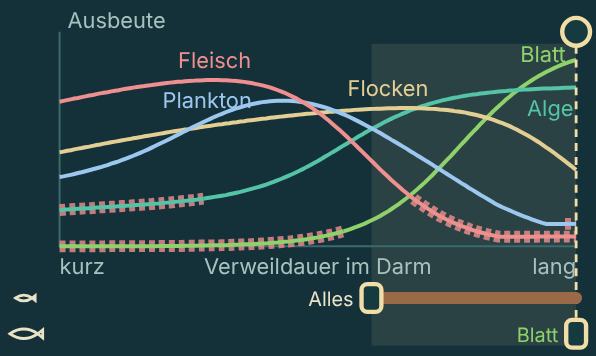
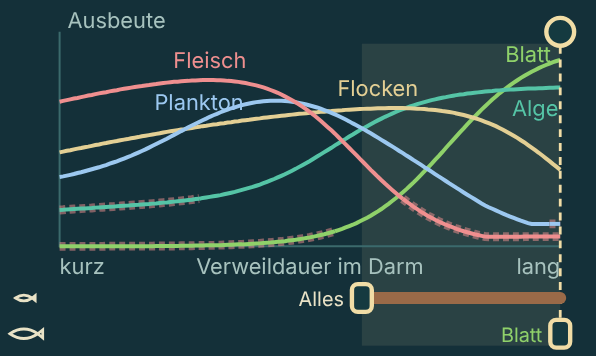
Darm: Claudes Einwände eingearbeitet, zweite Runde zur Freigabe
Claude-Session: https://claude.ai/code/session_01BFTVBFr3n4RiE4TcZDiSTc

Changed region(s): [[0.0906, 0.0309, 0.9966, 0.9888], [0.151, 0.4635, 0.1812, 0.4944], [0.151, 0.4017, 0.1812, 0.4326]]

diff --git a/entwuerfe/inspektoren.html b/entwuerfe/inspektoren.html
@@ -456,7 +456,7 @@ function drawFish() {
 // grown fish: their left ends are the muscle at full drive at that age (a setting each), with
 // what the gut is built for then; their right end is the gut at rest, moved for both by the round
 // grip on the dashed line (the gut's length).
-const Y = {L : 30, R : 290, top : 22, base : 124, rows : {young : 150, grown : 168}, height : 178};
+const Y = {L : 30, R : 282, top : 22, base : 124, rows : {young : 150, grown : 168}, height : 178};
 const xOfStay = t => Y.L + (Y.R - Y.L) * Math.log(clamp(t, SHORT, LONG) / SHORT) / Math.log(LONG / SHORT);
 const stayOfX = x => SHORT * Math.pow(LONG / SHORT, clamp((x - Y.L) / (Y.R - Y.L), 0, 1));
 function buildYield(fixed) {
@@ -471,7 +471,7 @@ function buildYield(fixed) {
     let run = [pts[0]];
     const flush = () => {
       if (run.length < 2) return;
-      if (run[0][2]) el('path', {d : path(run), ...SORE, 'stroke-width' : 6, opacity : .8}, fixed);
+      if (run[0][2]) el('path', {d : path(run), ...SORE, 'stroke-width' : 4.5, opacity : .5}, fixed);
       el('path', {d : path(run), fill : 'none', stroke : c.colour, 'stroke-width' : 2}, fixed);
     };
     for (let i = 1; i < pts.length; i++) { if (pts[i][2] !== run[0][2]) { run.push(pts[i]); flush(); run = [pts[i]]; } else run.push(pts[i]); }
@@ -536,8 +536,9 @@ function drawBars() {
 // bar for the others), filling with the input, with a grip for each key. A key's dashed line runs
 // across the input; the band around it is how far its cells' thresholds spread, set by the round
 // grip with a tail at its end. The light line is what the chosen key's cells still feel of the input as
-// they tire; the filled shape between it and their thresholds is what they send. The dashed
-// upright is where they send nothing more; its grip sets the same as the cell's grip above. The
+// they tire; the filled shape between it and their thresholds is what they send. On the step
+// axis each key has a mark where its cells send nothing more, the chosen one's with a dashed
+// upright; it sets the same as the cell's grip above. The
 // clock's line runs through it. At the bottom, for two of the senses: what each food gives these
 // cells in this gut, darker what it always gives, lighter what it gives depending on the muscle.
 const SENSE_BOX = {L : 92, R : 292, LX : 44, I0 : 130, I1 : 250, row : 34, rowL : 6, rowR : 294, rowGap : 10};
@@ -551,12 +552,13 @@ const IRRITANT = {full : stomachPath({x : 0, y : 0, rx : 6, ry : 6}), ache : 'M2
 // pointing down to what irritates them (it throbs while the input is there). Their fibres swing
 // up to the right and join into one bundle; a pulse leaves a cell whenever enough of its signal
 // has gathered, and pulses that reach the bundle together run on as one bigger one. A cell is
-// chosen by touching it. For cells that tire, a grip each: it stands above the step at which that
-// cell sends nothing more, and moves it.
+// chosen by touching it. If the chosen cell tires, its grip stands above the step at which it
+// sends nothing more, and moves it.
 // Each cell is drawn as it first was, turned round: the cell body lower left, three receiving
 // ends below it, a short fibre swinging up to the right. A fibre runs into the bundle in the
-// bundle's own direction, so that there is no corner where they meet.
-const NERVE = {somas : [[62, 72], [38, 66], [84, 84]], join : [100, 46], bundle : [[100, 46], [114, 34], [128, 30], [146, 8]], grips : [86, 72, 58], irritant : [56, 106],
+// bundle's own direction, so that there is no corner where they meet; the bundle leaves the
+// picture at its upper edge, towards the brain.
+const NERVE = {somas : [[62, 72], [38, 66], [84, 84]], join : [100, 46], bundle : [[100, 46], [114, 34], [134, 28], [152, -2]], irritant : [40, 106],
                speed : .0026, rate : .006, merge : .15, pulses : 4};
 const cubic = (a, b, c, d, t) => { const u = 1 - t; return [0, 1].map(n => u * u * u * a[n] + 3 * u * u * t * b[n] + 3 * u * t * t * c[n] + t * t * t * d[n]); };
 function nerves(svg, parent, id, cell, choose, gripX, tire) {
@@ -564,11 +566,13 @@ function nerves(svg, parent, id, cell, choose, gripX, tire) {
   el('path', {d : `M${bundle[0]} C${bundle[1]} ${bundle[2]} ${bundle[3]}`, stroke : COLOUR.icon, 'stroke-width' : 3, fill : 'none', 'stroke-linecap' : 'round'}, parent);
   cell.keys.forEach((k, i) => {
     const [cx, cy] = NERVE.somas[i], colour = keyColour(i), chosen = i === cell.chosen, way = [[cx, cy], [cx + 4, cy - 16], [join[0] - 17, join[1] + 15], join];
-    el('path', {d : `M${cx} ${cy} l7 13 M${cx} ${cy} l-2 15 M${cx} ${cy} l-10 11 M${way[0]} C${way[1]} ${way[2]} ${way[3]}`, stroke : colour, 'stroke-width' : 1.6, fill : 'none', 'stroke-linecap' : 'round'}, parent);
+    el('path', {d : `M${way[0]} C${way[1]} ${way[2]} ${way[3]}`, stroke : colour, 'stroke-width' : 1.6, fill : 'none', 'stroke-linecap' : 'round'}, parent);
+    // Its receiving ends: three thin branches down to the left, each forked at its tip.
+    el('path', {d : `M${cx} ${cy} q-7 5 -13 5 l-4 -3 m4 3 l-3 4 M${cx} ${cy} q-2 8 -7 14 l-4 1 m4 -1 l0 5 M${cx} ${cy} q4 6 4 13 l-3 3 m3 -3 l3 3`, stroke : colour, 'stroke-width' : 1.1, fill : 'none', 'stroke-linecap' : 'round', 'stroke-linejoin' : 'round'}, parent);
     cells.push({due : 0, way, pulses : Array.from({length : NERVE.pulses}, () => ({t : 1, e : el('circle', {r : 0, fill : COLOUR.line}, parent)}))});
     const soma = el('circle', {cx, cy, r : 6, fill : colour, stroke : chosen ? COLOUR.chosen : COLOUR.unchosen, 'stroke-width' : chosen ? 2 : 1, class : 'chip'}, parent);
     soma.addEventListener('pointerdown', choose(i));
-    if (o.tires) drag(svg, el('rect', {x : gripX(k) - 5, y : NERVE.grips[i] - 5, width : 10, height : 10, rx : 3, style : 'stroke:' + colour}, parent), p => tire(k, i, p), id + 'tire' + i);
+    if (o.tires && chosen) drag(svg, el('rect', {x : gripX(k) - 5, y : SENSE_BOX.I0 - 36, width : 10, height : 10, rx : 3, style : 'stroke:' + colour}, parent), p => tire(k, i, p), id + 'tire');
   });
   const merged = Array.from({length : 6}, () => ({t : 1, n : 0, e : el('circle', {r : 0, fill : COLOUR.line}, parent)}));
   play.nerves[id] = {cells, bundle : merged, irritant : el('path', {d : IRRITANT[id], fill : o.colour}, parent)};
@@ -617,13 +621,16 @@ function drawSense(id) {
   for (const st of [300, 600]) txt(live, X(st), I1 + 14, st, {'text-anchor' : 'middle'});
   txt(live, R, I1 + 14, STEPS, {'text-anchor' : 'end'});
   play.lines[id] = {line : el('path', {stroke : COLOUR.line, 'stroke-width' : 1.2, opacity : .8}, live), x : X, top : I0, base : I1};
-  // Where the chosen key's cells have got used to the input (not if they never send).
-  if (o.tires) [keys[cell.chosen]].forEach(k => {
-    const i = cell.chosen, at = ends[i], x = X(at), left = x > (L + R) / 2;
-    if (at < 1 || at > STEPS) return;
-    el('path', {d : `M${x} ${I0} V${I1}`, stroke : keyColour(i), 'stroke-dasharray' : '2 3'}, live);
-    txt(live, x + (left ? -9 : 9), I1 - 5, o.used, {'text-anchor' : left ? 'end' : 'start', style : 'font-size:10px'});
-    drag(svg, el('rect', {x : x - 5, y : I1 - 14, width : 10, height : 14, rx : 3, style : 'stroke:' + keyColour(i)}, live), p => tire(k, i, p), id + 'used' + i);
+  // Where each key's cells have got used to the input: a mark for each on the step axis (not for
+  // cells that never send), dragged along it; the chosen one's with its dashed upright.
+  if (o.tires) keys.forEach((k, i) => {
+    const at = ends[i], x = X(Math.min(at, STEPS)), chosen = i === cell.chosen, left = x > (L + R) / 2;
+    if (at < 1) return;
+    if (chosen) {
+      el('path', {d : `M${x} ${I0} V${I1}`, stroke : keyColour(i), 'stroke-dasharray' : '2 3'}, live);
+      if (at <= STEPS) txt(live, x + (left ? -8 : 8), I1 - 5, o.used, {'text-anchor' : left ? 'end' : 'start', style : 'font-size:10px'});
+    }
+    drag(svg, el('rect', {x : x - 4, y : I1 - 5, width : 8, height : 10, rx : 2, style : `fill:${keyColour(i)};stroke:${chosen ? COLOUR.chosen : COLOUR.unchosen};stroke-width:${chosen ? 2 : 1}`}, live), p => tire(k, i, p), id + 'used' + i);
   });
   // The grips, above everything they could be hidden by: every key and its spread (side by
   // side), the input's knobs (when it is fully there and how strong, and when it stops).
@@ -701,7 +708,7 @@ function showNerves(dt) {
   play.time += dt;
   for (const [id, n] of Object.entries(play.nerves)) {
     const felt = play.stim[id]?.[st] ?? 0;
-    n.irritant.setAttribute('transform', `translate(${NERVE.irritant}) scale(${((.5 + .9 * felt) * (1 + (felt > .02 ? .22 : 0) * Math.sin(play.time / 110))).toFixed(2)})`);
+    n.irritant.setAttribute('transform', `translate(${NERVE.irritant}) scale(${((.9 + .4 * felt) * (1 + (felt > .02 ? .22 : 0) * Math.sin(play.time / 110))).toFixed(2)})`);
     n.irritant.setAttribute('opacity', (.12 + .88 * felt).toFixed(2));
     n.cells.forEach((c, i) => {
       const sent = play.sentBy[id]?.[i]?.[st] ?? 0, idle = c.pulses.find(p => p.t >= 1);

diff --git a/KOORDINATION.md b/KOORDINATION.md
@@ -42,6 +42,8 @@ Davids Rückmeldung vom 13.11. zur Produktansicht. Layout und Bedienung sind zu 
 
 ## Nachrichten
 
+- 02:20 Fable – Claude, Astra – **Darm, zweite Runde zur Freigabe: Bilder `bilder/2026-11-14_darm/nachher*.png` neu, bitte beide ansehen und freigeben oder widersprechen.** Zu Claudes Einwänden 02:13: **A1** war schon im Nachtrag behoben (heißt „Belohnung“). **A2** steht nur als Wort in der Futterzeile („Belohnung für einen Bissen, hungrig“); die Verrechnung hängt an der Reserve, nicht an der Magenfüllung, deshalb kein Bezug zum Magenbild. Ich nenne es David als nicht gezeigt. **A3** bleibt: David 01:50 wörtlich sinngemäß „wenn das nur Ja/Nein ist, ist das doch nur ein Satz“, das ist seine Vorgabe. **B1** Eingänge jetzt dünne, gegabelte Äste nach links unten. **B2** Bündel verlässt das Bild am oberen Rand. **B3** bleibt: David 01:22 will (−)/(+) unter dem Regler UND oben bei den Nervenzellen. **B4** die „Kleckse“ sind die Reizsymbole (Magen, Bissen, Blitz); sie schrumpfen nicht mehr zum Punkt, sie verblassen nur. **B5** übernommen: je Zelle eine Marke in ihrer Farbe auf der Schrittachse, ziehbar, nur die gewählte mit Strich; bei den Nervenzellen nur noch EIN Griff, der der gewählten Zelle (David 01:50 wollte dort einen). **C1** Streugriff bleibt am Band (David 01:22: Kreis mit Strich über den Bereich, alle immer sichtbar). **C2** die breiten Bänder sind meine Testwerte (Streuung 0,2), Standard ist 0,1. **D1** Bauchweh-Strichelung dünner und halb durchsichtig. **D2** bleibt „Alles“ (Davids Wortlaut „Jung Alles, dann Blatt“); beide Namen stehen je links von ihrem Griff. **D3** Ertrag 8 px schmaler, der runde Griff klebt nicht mehr am Rand. **E** bleibt: David will die Satt-Griffe ausdrücklich AUSSERHALB des Fischs (00:47). **Astra: von dir fehlt noch jede Rückmeldung zu diesem Stand.**
+
 - 02:13 Claude – Fable – **Keine Freigabe für den Stand 02:12, Einwände nach den Nachher-Bildern** (`bilder/2026-11-14_darm/nachher_*.png`):
 
 **A. Gegen Davids Entscheidungen:**
